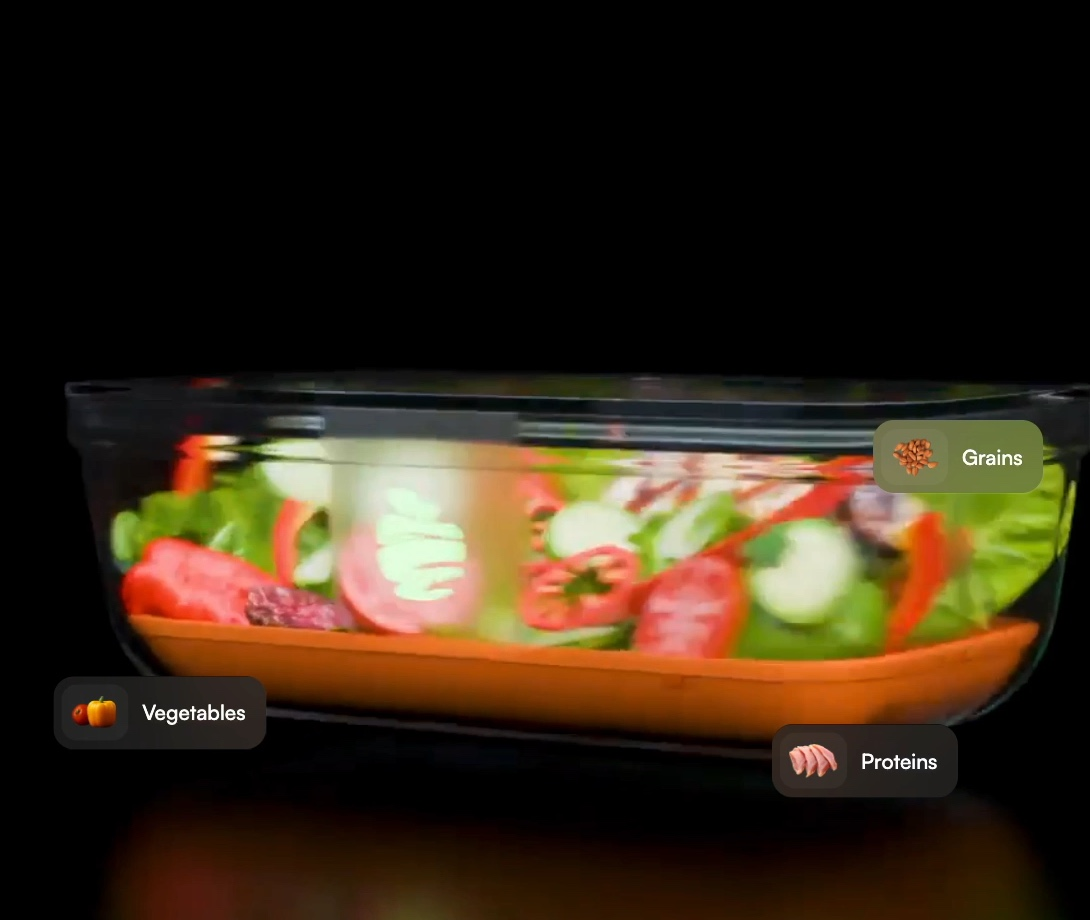
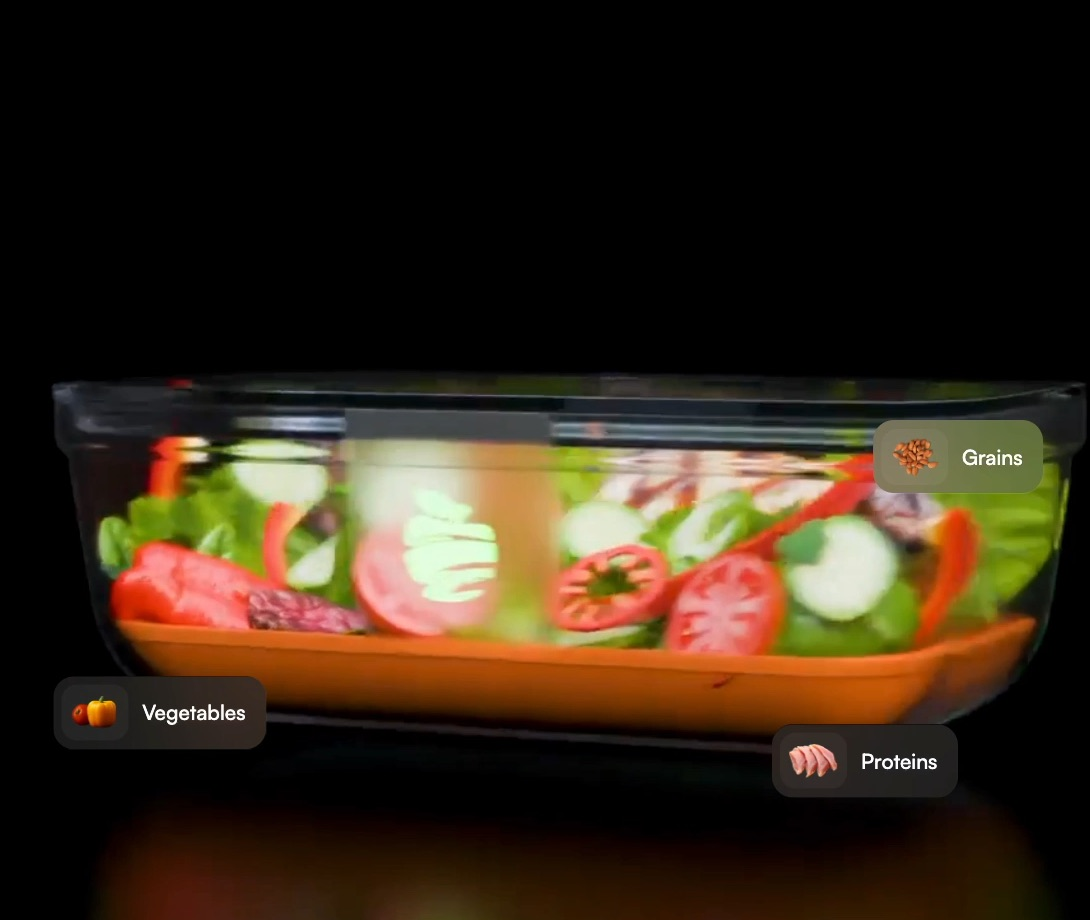
Loop full hero clip forward with seamless crossfade
Replace the hero salad animation with the complete recorded clip
(closed -> burst -> spin -> burst -> settle) played forward only, at
high resolution from cleaner.mov. The loop wraps at the matched
closed-front start/end frame so no lid-up burst lands on the seam,
and a two-layer crossfade dissolves the wrap — removing the earlier
ping-pong reverse and the double-burst stutter. 90 dense frames at
15 FPS for smooth motion; frame URLs versioned to bust browser cache.

diff --git a/public/eatnaked/index.html b/public/eatnaked/index.html
@@ -94,7 +94,9 @@
   .hero-eyebrow{justify-content:center;margin-bottom:18px}
   .hero h1{font-size:clamp(40px,7vw,86px);font-weight:800;max-width:14ch;margin:0 auto;position:relative;z-index:3}
   .hero-salad{position:relative;z-index:2;margin-top:-26px;width:min(760px,92vw)}
-  .hero-salad img{width:100%;height:auto;filter:drop-shadow(0 40px 60px rgba(0,0,0,.6))}
+  .hero-salad img{width:100%;height:auto;display:block}
+  .hero-salad #saladB{position:absolute;inset:0;z-index:0}
+  .hero-salad #salad{position:relative;z-index:1;will-change:opacity}
   .hero-corner{position:absolute;bottom:42px;z-index:4}
   .hero-corner.left{left:40px;text-align:left;max-width:300px}
   .hero-tags{display:flex;gap:8px;margin-bottom:18px}
@@ -334,7 +336,7 @@
   <div class="hero">
     <span class="eyebrow hero-eyebrow reveal in">It's a Lifestyle <span class="leaf">🌱</span></span>
     <h1 class="reveal in">EAT Local, EAT Healthy, EATnaked.</h1>
-    <div class="hero-salad reveal in"><img id="salad" src="assets/frames/h_000.jpg?v=3" alt="Rotating salad bowl" /></div>
+    <div class="hero-salad reveal in"><img id="saladB" src="assets/frames/h_000.jpg?v=6" alt="" aria-hidden="true" /><img id="salad" src="assets/frames/h_000.jpg?v=6" alt="Salad bowl bursting open" /></div>
   </div>
   <div class="hero-corner left">
     <div class="hero-tags"><span>Bold</span><span>Fresh</span><span>Tailored</span></div>
@@ -532,19 +534,27 @@
 (function(){
   "use strict";
 
-  /* ---------- Hero salad ping-pong frame loop ---------- */
-  var salad = document.getElementById('salad');
+  /* ---------- Hero salad: full clip, forward-only, crossfade-looped ----------
+     The complete recorded sequence plays forward (closed -> burst -> spin -> burst
+     -> settle back to closed-front). Start and end are the same closed-front frame,
+     and the last FADE frames dissolve into the start frame (#saladB), so the whole
+     video loops seamlessly — no reverse, and no burst lands on the seam. */
+  var salad  = document.getElementById('salad');
+  var saladB = document.getElementById('saladB');
+  var N = 90, FPS = 15, FADE = 8, V = 'v=6';
   var FRAMES = [];
-  for (var i=0;i<=19;i++){ FRAMES.push('assets/frames/h_'+String(i).padStart(3,'0')+'.jpg?v=3'); }
+  for (var i=0;i<N;i++){ FRAMES.push('assets/frames/h_'+String(i).padStart(3,'0')+'.jpg?'+V); }
   var imgs = FRAMES.map(function(src){ var im=new Image(); im.src=src; return im; });
-  var fi=0, dir=1, last=0, FPS=8;
+  saladB.src = FRAMES[0];                       // bottom layer always holds the start frame
+  var fi=0, last=0;
   function animate(ts){
     if (ts-last > 1000/FPS){
       last=ts;
-      fi+=dir;
-      if (fi>=FRAMES.length-1){ fi=FRAMES.length-1; dir=-1; }
-      else if (fi<=0){ fi=0; dir=1; }
-      if (imgs[fi].complete) salad.src=FRAMES[fi];
+      fi++;
+      if (fi>=N){ fi=0; }
+      if (imgs[fi] && imgs[fi].complete) salad.src=FRAMES[fi];
+      var fromEnd = N-1-fi;                      // crossfade tail -> start frame
+      salad.style.opacity = (fromEnd < FADE) ? (fromEnd/FADE).toFixed(3) : '1';
     }
     requestAnimationFrame(animate);
   }
